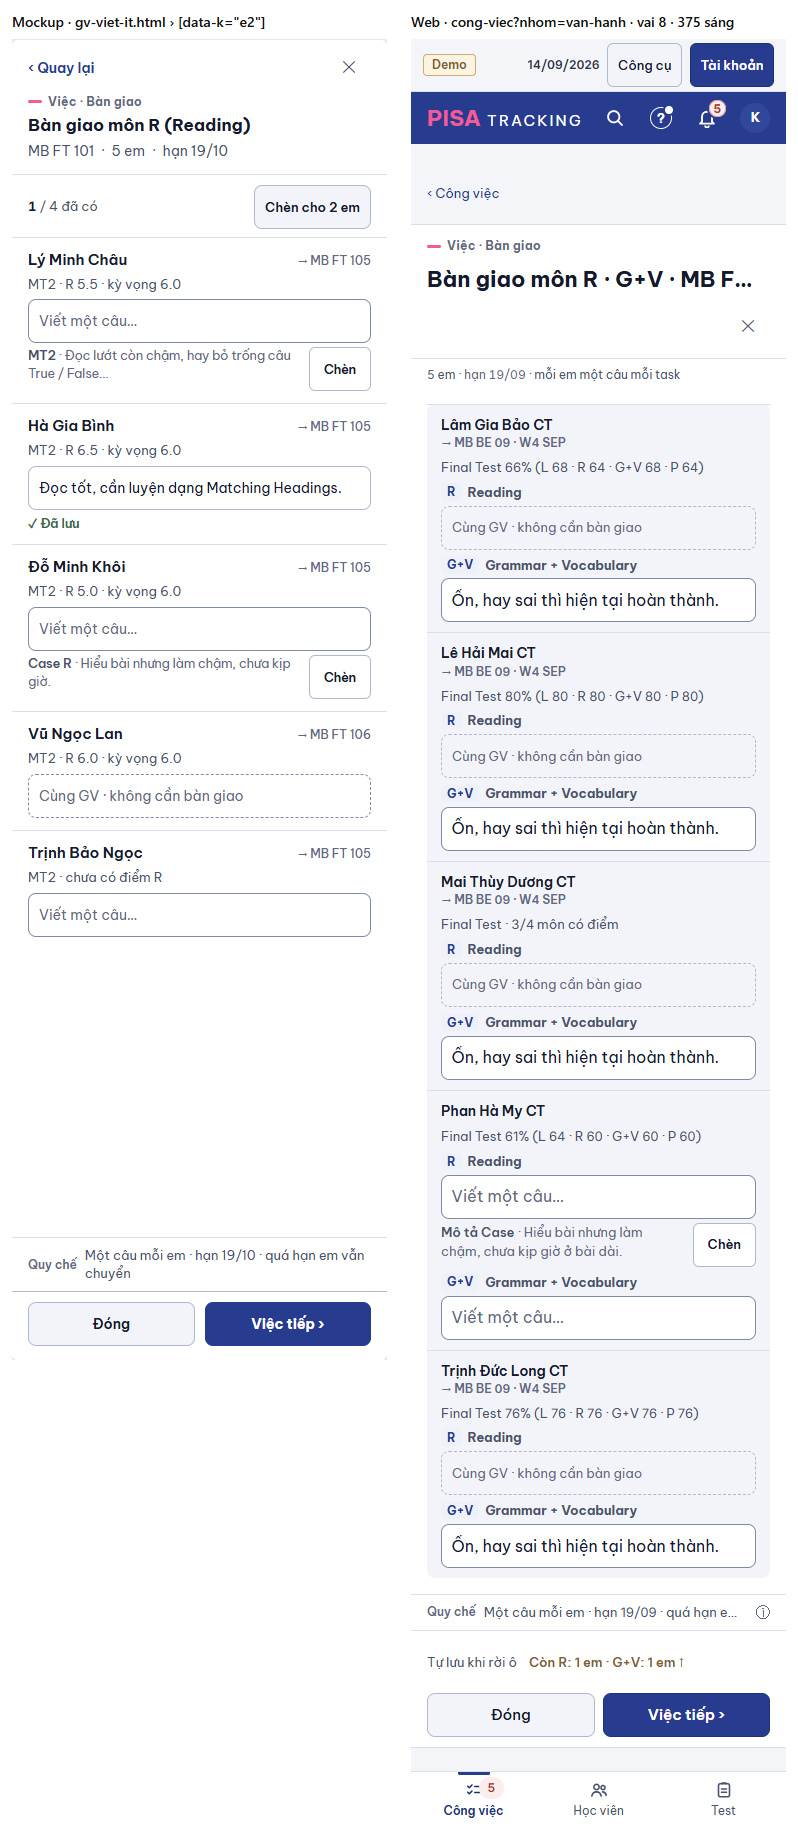
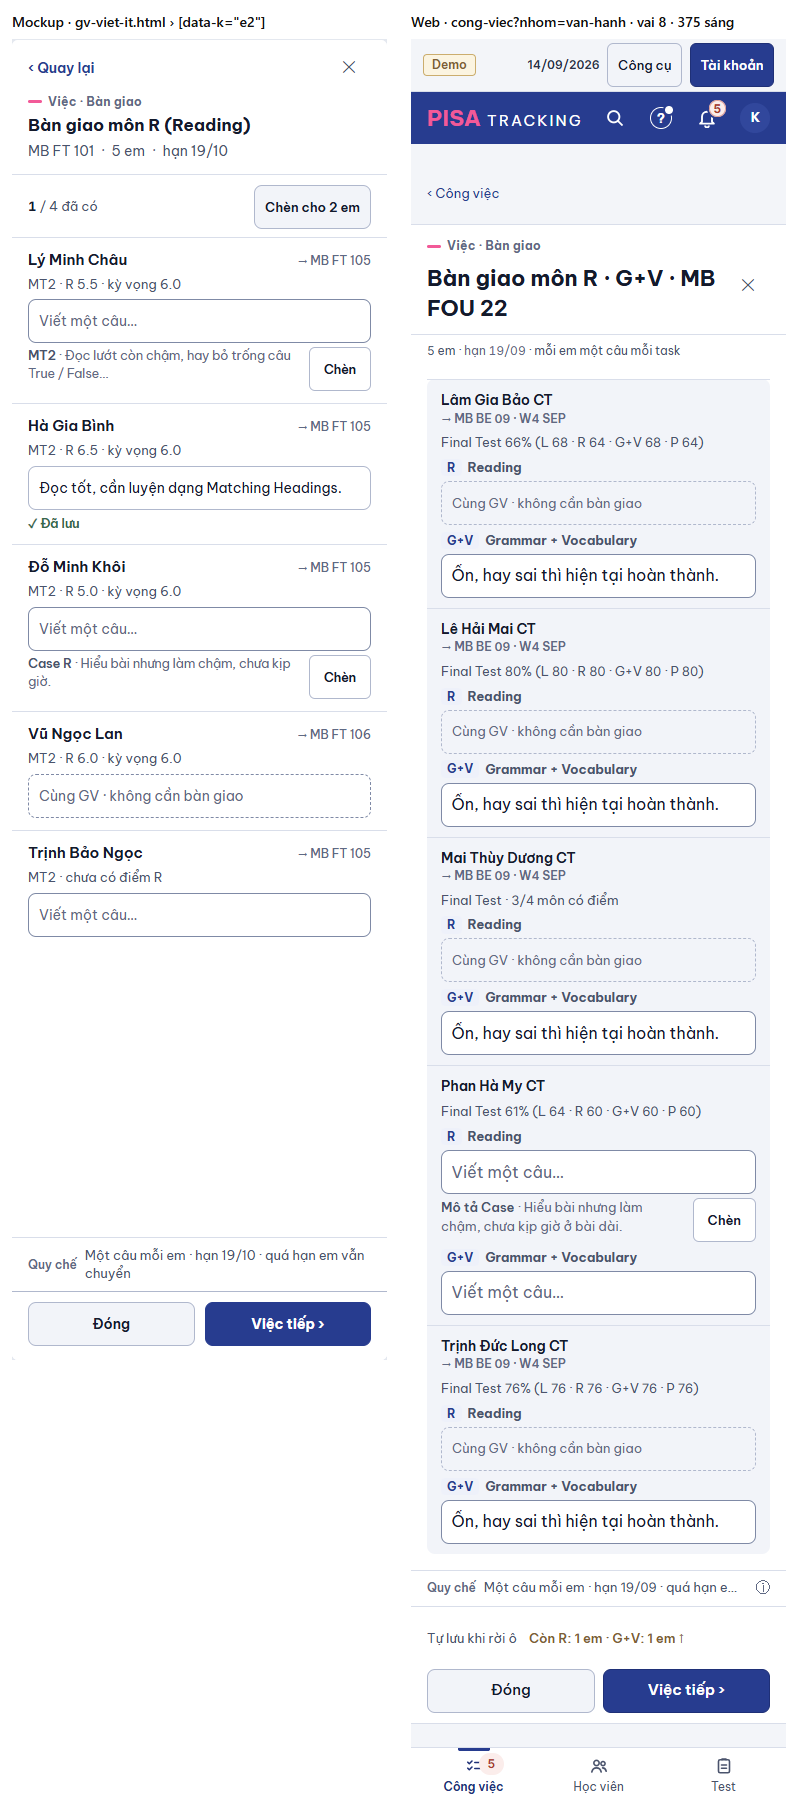
GD-20b (rà PTA): tiêu đề KhungPanel 375 xuống dòng, không cắt; ✕ góc phải trên; chụp lại e2

diff --git a/web/src/ui/KhungPanel.tsx b/web/src/ui/KhungPanel.tsx
@@ -426,12 +426,13 @@ export function KhungPanel({ tieuDe: tieuDeGoc, hocVien, lop, rong: rongRieng, t
         <header className={`flex shrink-0 items-center gap-2 border-b px-4 ${lui ? 'flex-wrap pb-2.5 pt-1.5' : vachLoai || cvNgoai?.them ? 'flex-wrap pb-2.5 pt-3' : 'h-[52px]'}`} style={{ borderColor: 'var(--line)' }}>
           {hangLui}
           {vachLoai && <div className="-mb-1 w-full">{vachLoai}</div>}
-          <h2 className={`m-0 min-w-0 truncate font-bold text-slate-100 ${cvNgoai ? 'text-[22px]' : 'text-[17px]'}`} title={tieuDe}>{tieuDe}</h2>
+          {/* GD-20b (PTA rà #1745, chủ SP không nhận chữ cắt): < 640 px tiêu đề dài xuống dòng (không "…"), giữ cùng hàng với ✕ góc phải trên; ≥ 640 một dòng như cũ. */}
+          <h2 className={`m-0 min-w-0 font-bold text-slate-100 max-sm:flex-1 max-sm:break-words max-sm:leading-snug sm:truncate ${cvNgoai ? 'text-[22px]' : 'text-[17px]'}`} title={tieuDe}>{tieuDe}</h2>
           {ngu && <span className="min-w-0 flex-1 truncate text-xs text-slate-400" title={ngu}>{ngu}</span>}
-          {!ngu && <span className="flex-1" />}
+          {!ngu && <span className="flex-1 max-sm:hidden" />}
           {nutXem}
           {/* Rà #530: ✕ ở mọi cỡ như mockup V5 (375 có thêm "‹ Công việc" của nơi gọi — cùng đường đóng). */}
-          {!lui && nutDong}
+          {!lui && <span className="flex shrink-0 max-sm:self-start">{nutDong}</span>}
           {cvNgoai?.them && <div className="w-full pb-1">{cvNgoai.them}</div>}
         </header>
         )}

diff --git a/docs/anh/gd20b-ban-giao-chen/khop-khac.md b/docs/anh/gd20b-ban-giao-chen/khop-khac.md
@@ -47,7 +47,7 @@ B2 (dải sau "Chèn cho n em" ở bảng GVBM): seed chỉ có một ô GVBM kh
 ## Sửa sau rà PTA (#1745)
 - [XM-c] PTA đồng ý.
 - Chân bảng GVBM: mở từ Công việc (có việc kế) → "Việc tiếp ›" luôn là nút chính bên phải (trước: nút thường khi còn em thiếu); mở từ hồ sơ lớp → chỉ "Đóng". Chụp lại b1 + e2 từ Công việc.
-- Ghi nhận (ngoài PR): tiêu đề panel 375 "Bàn giao môn R · G+V · MB F…" bị cắt — tiêu đề `KhungPanel` có sẵn, chưa đổi ở PR này.
+- Tiêu đề panel 375 bị cắt "… MB F…" (PTA: sửa luôn): `KhungPanel` đầu panel dạng thường — < 640 px tiêu đề xuống dòng, không "…", ✕ cùng hàng góc phải trên; ≥ 640 một dòng như cũ. Soi 3 panel 375: Bàn giao môn R · G+V · MB FOU 22 (2 dòng) · Bàn giao MB FT 101 · R cho Phạm Thu Trang (2 dòng) · Báo cáo PH · MB FT 101 · Nhận xét chung (1 dòng, ✕ ở hàng "‹ Quay lại") — không panel nào còn cắt. Chụp lại e2.
 
 ## Máy chủ
 - `POST /lenh-chuyen/:id/ban-giao-mon/go-chen` · `POST /ban-giao-gv/:id/gop-y/go-chen`: Hoàn tác "Chèn cho n em" — máy chủ không nhận câu rỗng nên cần đường gỡ. Cùng quyền ghi; chỉ xoá khi câu đang lưu ĐÚNG bằng câu vừa chèn (đã sửa → giữ, `ok: false`); có nhật ký (`ban_giao.go_chen`, `ban_giao_gv.go_chen`). Nhận xét chung GVCN: dùng đường nháp sẵn có (nhận rỗng).
